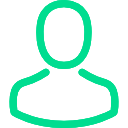
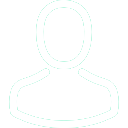
Center aligned progress bar

Changed region(s): [[0.0625, 0.0, 0.9375, 1.0]]

diff --git a/src/app/home-page/home-page.component.html b/src/app/home-page/home-page.component.html
@@ -9,7 +9,7 @@
 
     <div class="col-md-2 col-md-offset-1">
       <div class="personal-tonnage">
-        <p>Personal total tonage:</p>
+        <p>Personal total tonnage:</p>
         <h1>
           <img src="assets/person.png">
           {{personalTonnage}}
@@ -19,16 +19,18 @@
     </div>
 
     <div class="col-md-6" id="progress-bar-container">
-      <h3 style="color:#fff;">Your team's total tonnage</h3>
       <div class="row">
         <div class="col-md-9">
+            <div class="row">
+                <h3 style="color:#fff;">Your team's total tonnage</h3>
+            </div>
           <div class="progress throughput-loading-bar">
             <div class="progress-bar progress-bar-success progress-bar-striped active" role="progressbar" [ngStyle]="{'width': this.currentTeamThroughput * 100 / this.teamThroughputGoal + '%' }" aria-valuemin="0" aria-valuemax="100">
               {{this.currentTeamThroughput * 100 / this.teamThroughputGoal}}% <span>Complete (success)</span>
             </div>
           </div>
         </div>
-        <div style="color:#fff;" class="col-md-3" style="font-size: 140%; color: white !important;">
+        <div style="color:#fff;" class="col-md-2 percentage-counter" style="font-size: 140%; color: white !important;">
           {{currentTeamThroughput}}/{{teamThroughputGoal}}
           tons
         </div>

diff --git a/src/app/home-page/home-page.component.css b/src/app/home-page/home-page.component.css
@@ -1,7 +1,11 @@
+.percentage-counter{
+    margin-top: 30px;
+}
+
 .personal-tonnage{
-    color: #00dd90 !important;
+    color: White !important;
     text-align: center;
-    border: 3px solid #00dd90;
+    border: 3px solid White;
     border-radius: 7px;
     width: 170px;
     padding: 5px 0px;
